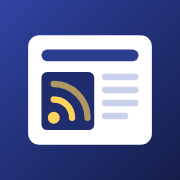
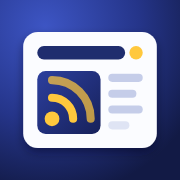
アプリのアイコンを仕上げる（C3 のブラッシュアップ版）
形を大きくして小さい表示でも見やすくし、見出しの横に新着の印（黄色の点）、
記事の影と背景の奥行き、写真部分のグラデーションを加えた。検討した案の見本を docs/ に保存。

Claude-Session: https://claude.ai/code/session_018Wqotyeq73C7tFsii4Ghkf

diff --git a/index.html b/index.html
@@ -7,8 +7,8 @@
     <meta name="apple-mobile-web-app-capable" content="yes" />
     <meta name="apple-mobile-web-app-status-bar-style" content="default" />
     <meta name="apple-mobile-web-app-title" content="PR Watcher" />
-    <link rel="icon" href="/icon.svg?v=2" type="image/svg+xml" />
-    <link rel="apple-touch-icon" href="/apple-touch-icon.png?v=2" />
+    <link rel="icon" href="/icon.svg?v=3" type="image/svg+xml" />
+    <link rel="apple-touch-icon" href="/apple-touch-icon.png?v=3" />
     <link rel="preconnect" href="https://fonts.googleapis.com" />
     <link rel="preconnect" href="https://fonts.gstatic.com" crossorigin />
     <link
